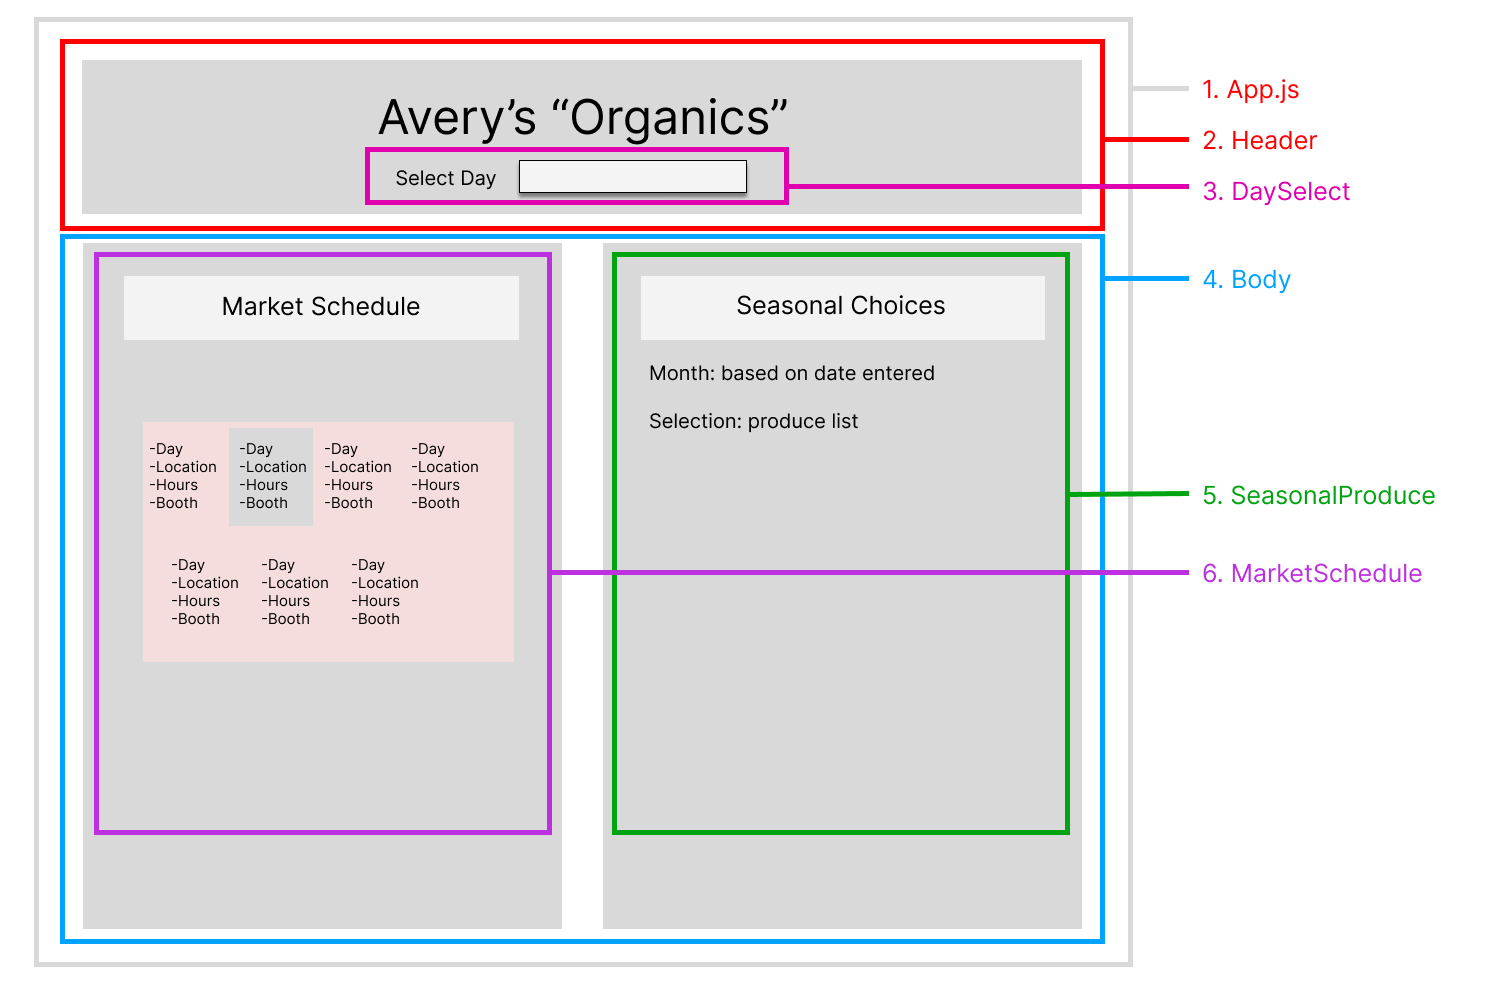
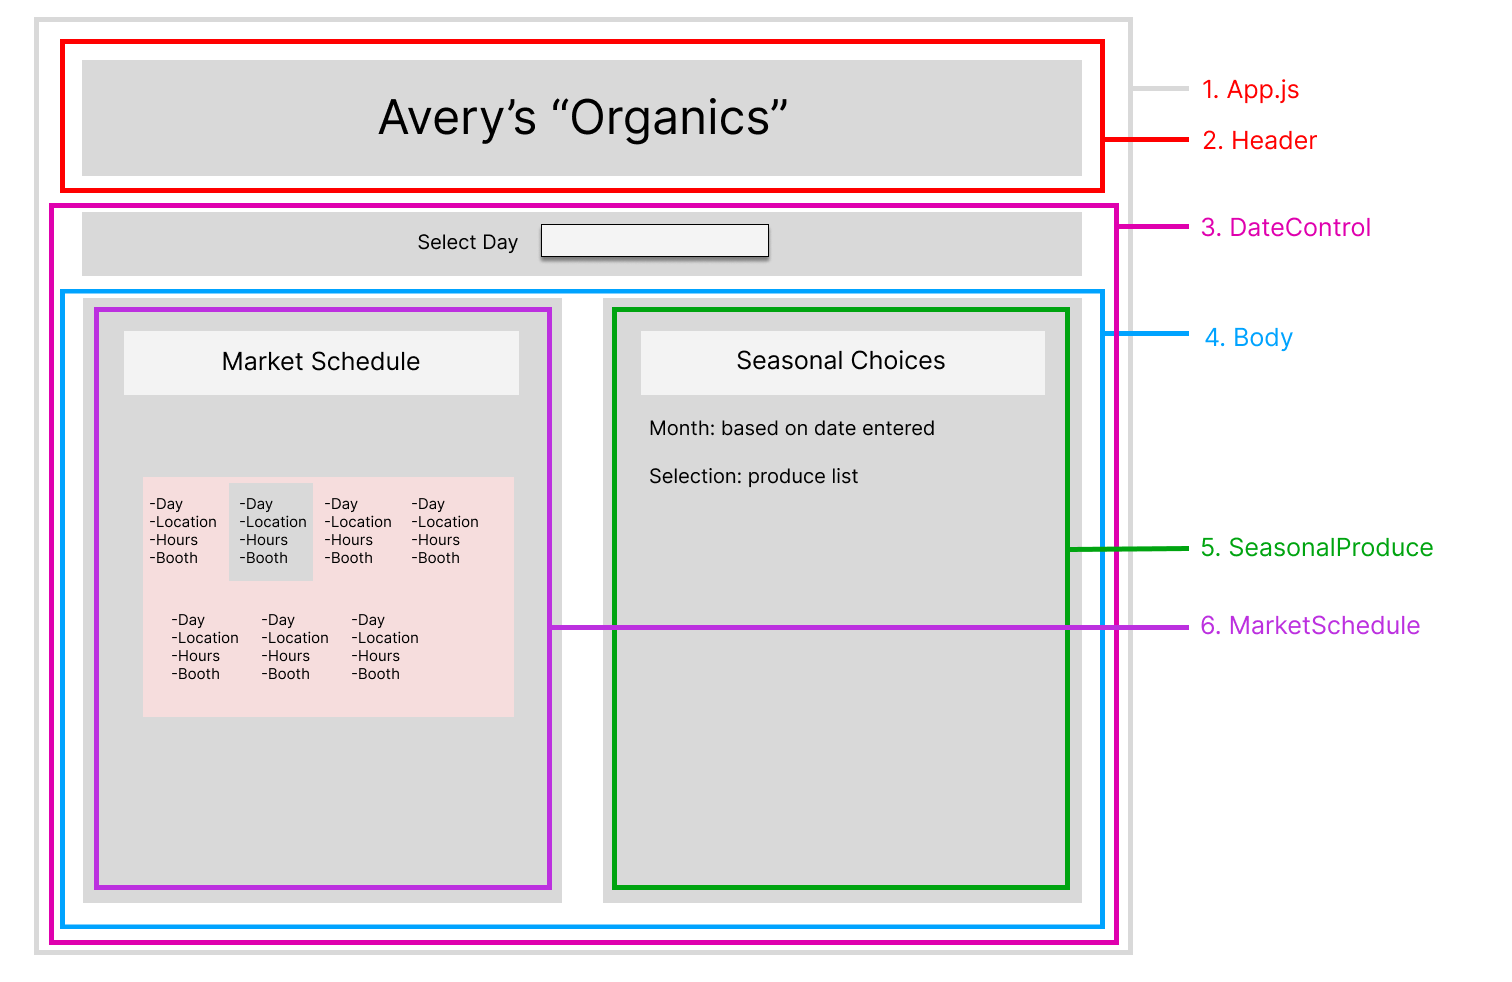
styling improvements

Changed region(s): [[0.0311, 0.1527, 0.9636, 1.0]]

diff --git a/farmers-market/src/index.css b/farmers-market/src/index.css
@@ -1,12 +1,15 @@
-body {
-  margin: 0;
+.bodyHolder {
   font-family: -apple-system, BlinkMacSystemFont, 'Segoe UI', 'Roboto', 'Oxygen',
     'Ubuntu', 'Cantarell', 'Fira Sans', 'Droid Sans', 'Helvetica Neue',
     sans-serif;
   -webkit-font-smoothing: antialiased;
   -moz-osx-font-smoothing: grayscale;
   display: flex;
-  text-align: center;
+  justify-content: center;
+  /* align-items: center; */
+  /* text-align: center; */
+  flex-direction: row;
+  margin-top: 40px;
 }
 
 code {
@@ -23,21 +26,26 @@ code {
 .selectedDay {
   background-color: rgb(255, 255, 255);
   width: 250px;
-  height: 250px;
+  height: 180px;
   border: 1px solid gray;
-  padding: 15px;
-  box-shadow: 10px 5px 5px red;
+  padding: 10px;
+  padding-top: 0;
+  box-shadow: 10px 5px 5px rgb(255, 82, 82);
   margin: 10px;
+}
+h1  {
+  margin: 5px;
 }
 
 .genericDay{
   background-color: rgb(255, 255, 255);
   width: 250px;
-  height: 250px;
-  border: 1px solid gray;
-  padding: 15px;
-  box-shadow: 10px 5px 5px rgb(0, 0, 0);
-  margin: 20px;
+  height: 180px;
+  border: 1px solid rgb(184, 183, 183);
+  padding: 10px;
+  padding-top: 0;
+  box-shadow: 10px 5px 5px rgb(72, 72, 72);
+  margin: 10px;
 }
 
 .hidden {  
@@ -46,6 +54,43 @@ code {
 
 .selected-month {
   display: block;
-  background-color: antiquewhite;
+  border: 1px solid gray;
+  padding: 15px;
+  padding-top: 5px;
+  box-shadow: 10px 5px 5px rgb(255, 82, 82);
+  margin: 10px;
 }
 
+.seasonal-produce {
+  /* float: right; */
+  margin: 10px;
+  width: 650px;
+}
+
+.header {
+  text-align: center;
+  width: 100%;
+}
+
+li {
+  list-style: outside;
+  list-style-type: plants;
+}
+
+@counter-style plants {
+  system: cyclic;
+  symbols: "\1F33F \1F353";
+  suffix: " ";
+}
+
+.dateInput {
+  /* width: 100%; */
+  text-align: center;
+}
+
+.showDate {
+  display: block;
+}
+.hiddenDate {
+  display: none;
+}

diff --git a/farmers-market/src/components/DaySelect.js b/farmers-market/src/components/DaySelect.js
@@ -7,6 +7,10 @@ function DaySelect() {
   const [day, setDay] = useState('');
   const [month, setMonth] = useState('');
   const [date, setDate] = useState('');
+  let dateVsibility = "hiddenDate";
+  if(date != "") {
+    dateVsibility = 'showDate';
+  }
   
   const handleChange = (e) => {
     const momentDate = moment(date, "YYYY-MM-DD")
@@ -18,25 +22,28 @@ function DaySelect() {
     setDate(input);
     console.log(`month: ${momentMonth}, day: ${momentDay}, date: ${date}`);
   };
+  // handleChange();
 
   return (
     <React.Fragment>
-      <div>
+      <div className="dateInput">
         {/* <form onSubmit={handleChange}> */}
           {/* <input type="date" /> */}
           {/* <p>Selected Date: {date}</p> */}
           {/* <p><button type="submit">Submit</button></p> */}
         {/* </form> */}
         <input type="date" value="2023-02-07" onChange={handleChange} />
-        <p>selectedDate: {date}</p>
+
+        {/* <p className={dateVsibility}>Selected Date: {date}</p> */}
+
+        
       </div>
-      <div id="body">
-        <MarketSchedule day={day}/>
-        <SeasonalProduce month={month}/>
+      <div id="body" className="bodyHolder">
+        <div ><MarketSchedule day={day}/></div>
+        <div className="seasonal-produce"><SeasonalProduce month={month}/></div>
       </div>
     </React.Fragment>
     );
 }
-
 
 export default DaySelect;

diff --git a/farmers-market/src/components/SeasonalProduce.js b/farmers-market/src/components/SeasonalProduce.js
@@ -3,32 +3,6 @@ import Produce from "./Produce";
 
 function SeasonalProduce(props){
   const selectedMonth = props.month;
-
-  // let assignVisibleState = (selectedMonth) => {
-  //   switch (selectedMonth) {
-  //     case "January":
-  //       seasonalProduceList[0].map((produce, index) =>
-  //         <Produce selection={produce.selection}
-  //           key={index} />
-  //       )
-  //       break;
-  //     case "February":
-  //       let currentlyVisibleState = seasonalProduceList[1].map((produce, index) =>
-  //         <Produce selection={produce.selection}
-  //           key={index} />
-  //       )
-  //       break;
-  //     case "March":
-  //       seasonalProduceList[1].map((produce, index) =>
-  //         <Produce selection={produce.selection}
-  //           key={index} />
-  //       )
-  //       break;
-  //     default:
-
-  //   }
-  // }
-
   return(
     <React.Fragment>
       <h1>Seasonal Produce</h1>

diff --git a/farmers-market/src/components/Header.js b/farmers-market/src/components/Header.js
@@ -3,7 +3,10 @@ import React from "react";
 function Header() {
   return (
     <React.Fragment>
+      <div class="header">
       <h1>Avery's Organics</h1>
+      <p><em>From our dirt to your table</em></p>
+      </div>
     </React.Fragment>
   );
 }
